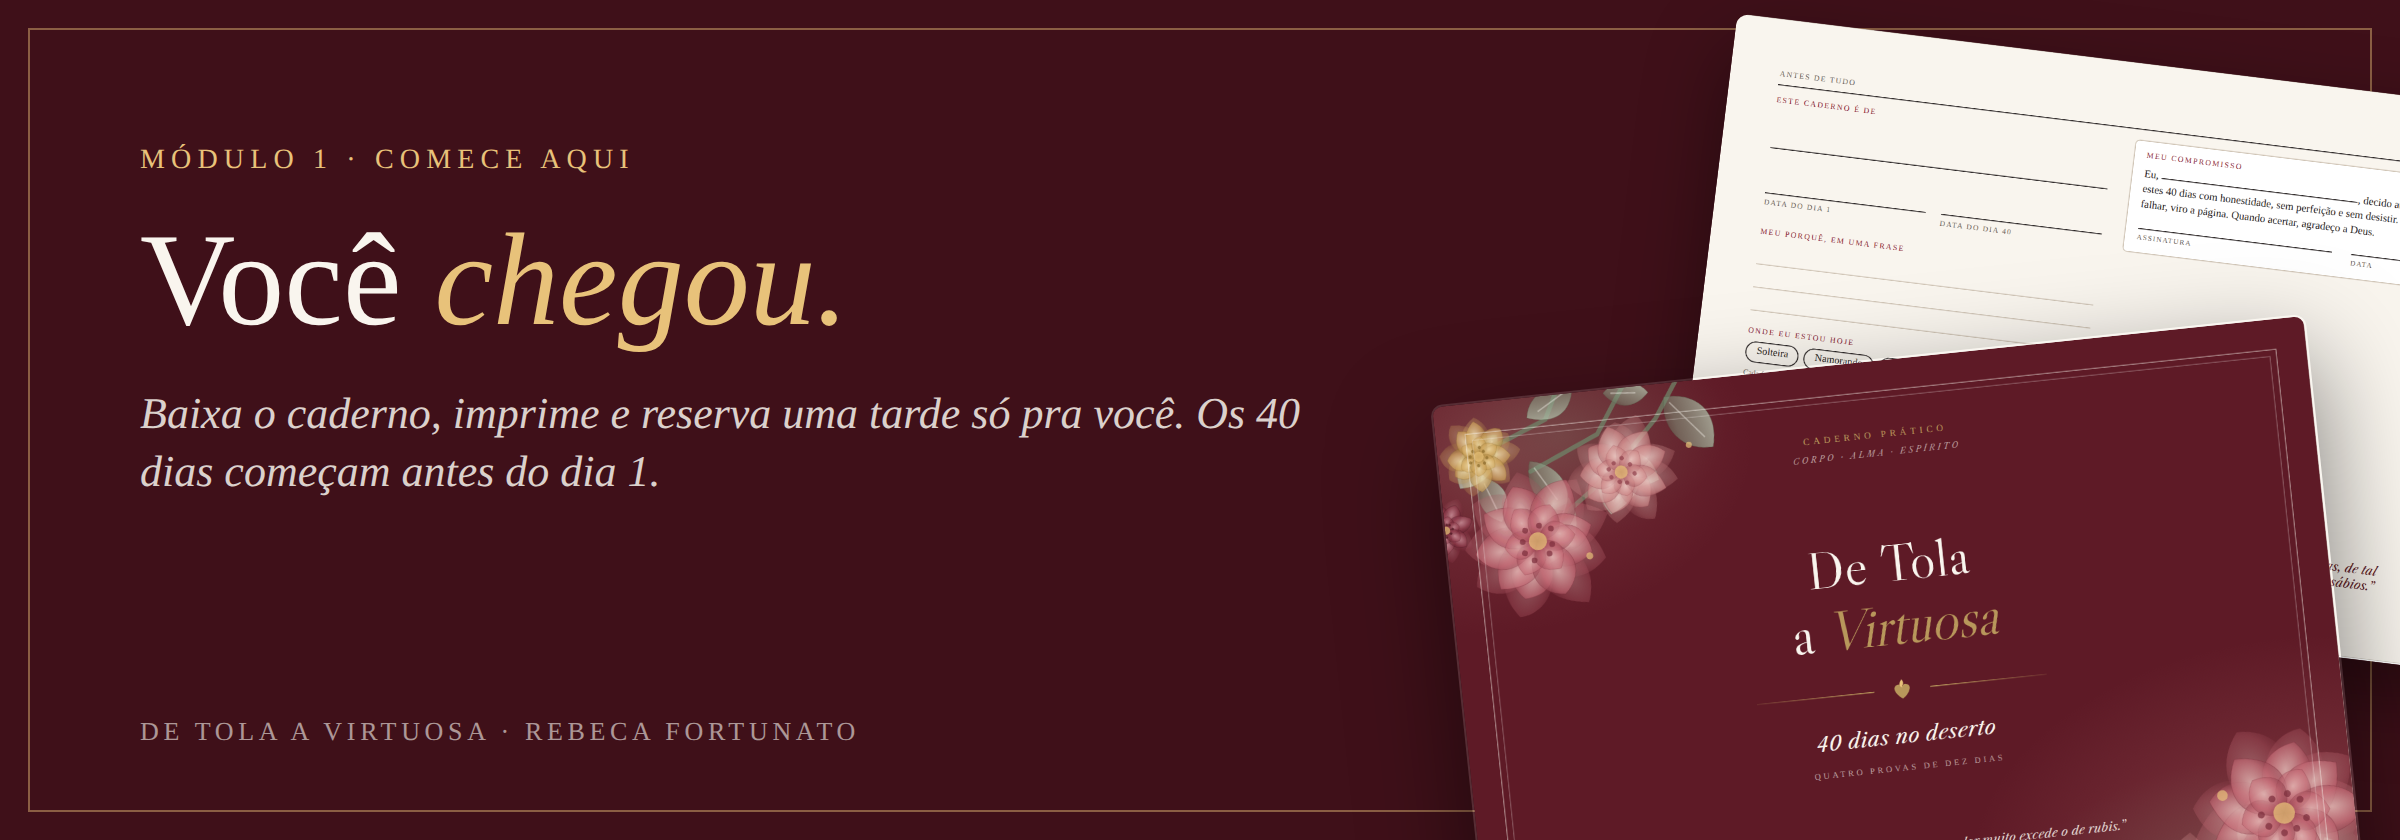
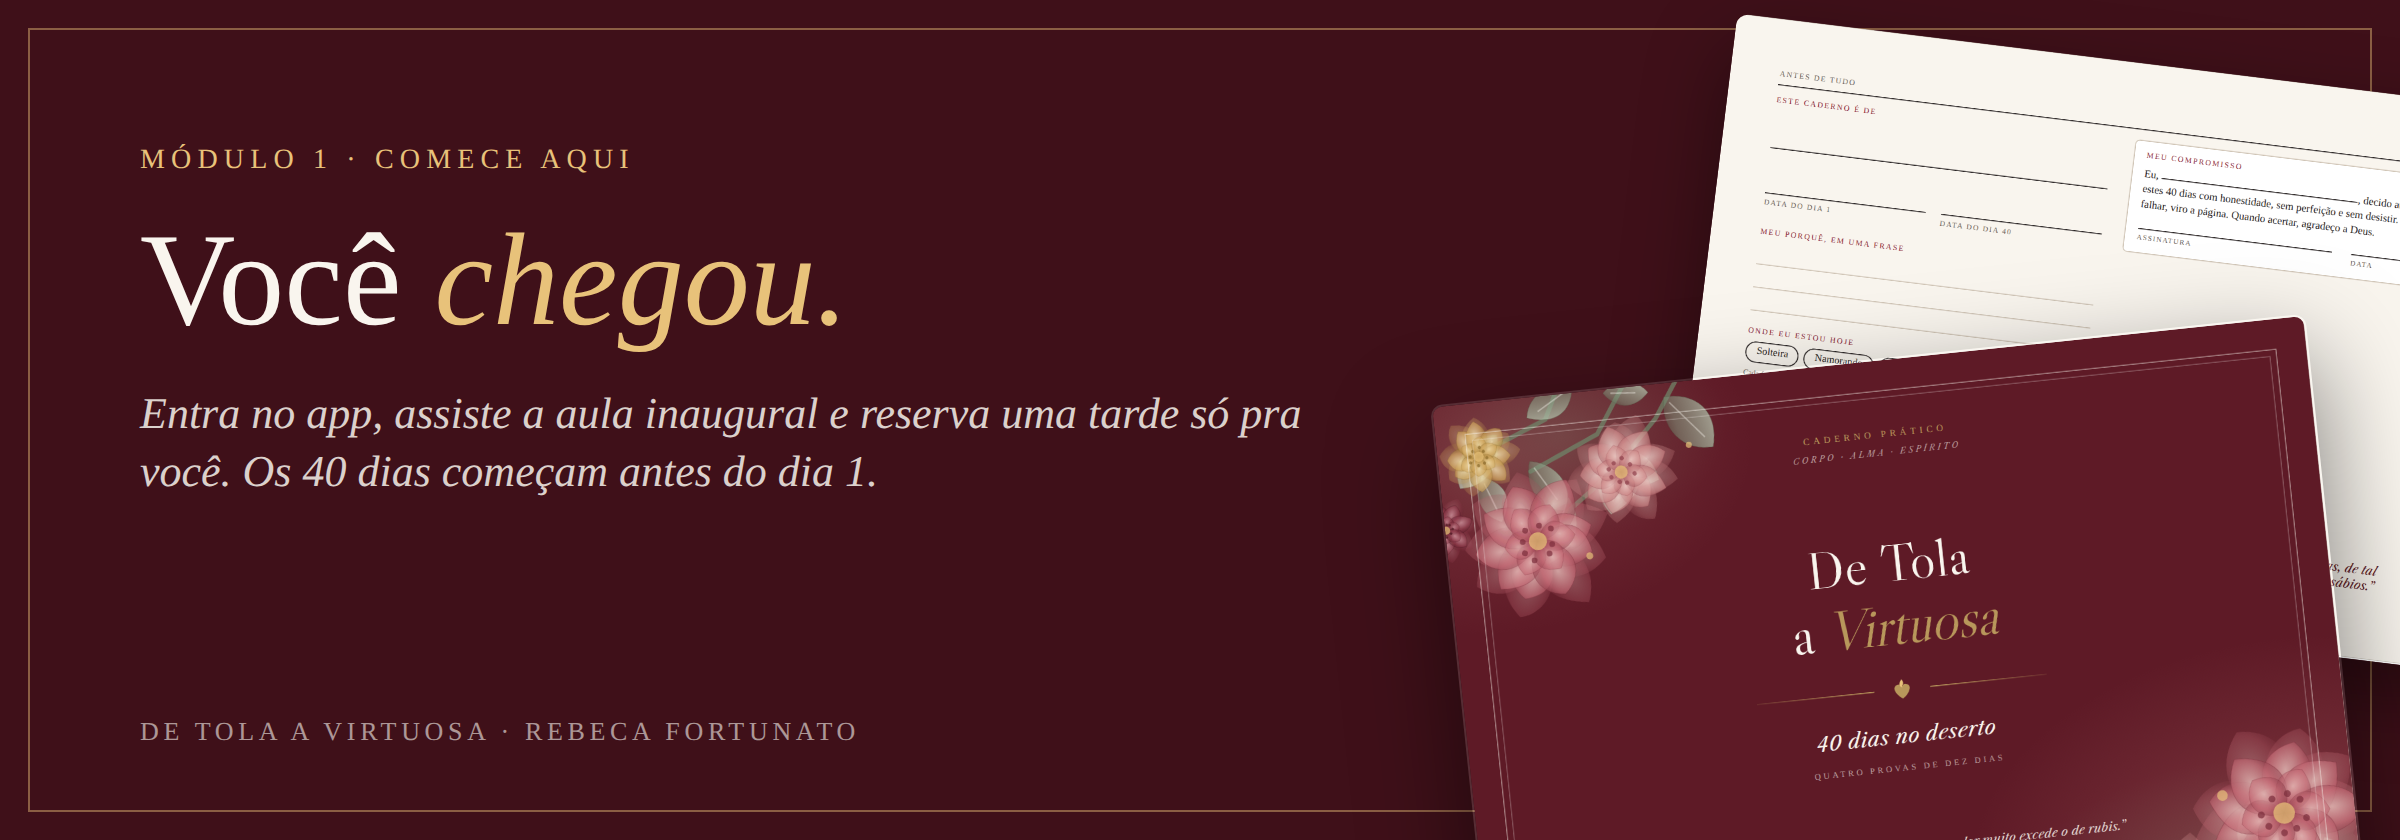
Aula Comece aqui vira mapa do caminho: app primeiro, PDF no fim
Claude-Session: https://claude.ai/code/session_01GVjzB1KzkYMHJxVq5zD7i2

Changed region(s): [[0.0625, 0.4643, 0.5625, 0.5881]]

diff --git a/kiwify/aula-comece-aqui.html b/kiwify/aula-comece-aqui.html
@@ -3,38 +3,59 @@
   <img src="https://detolaavirtuosa.com/assets/img/aula-banner.png" alt="Você chegou. De Tola a Virtuosa" style="width:100%;height:auto;display:block;border-radius:12px">
 
   <p style="font-size:24px;line-height:1.4;font-style:italic;color:#8E2A3A;margin:32px 0 8px">Oi, amada. Se você chegou até aqui, é porque cansou de ser a mulher que derruba a própria casa. Eu também cansei. Bem-vinda ao deserto. A gente sai de lá diferente.</p>
-  <p style="margin:0 0 28px;font-size:14px;letter-spacing:.18em;text-transform:uppercase;color:#B8975B">Rebeca Fortunato</p>
+  <p style="margin:0 0 32px;font-size:14px;letter-spacing:.18em;text-transform:uppercase;color:#B8975B">Rebeca Fortunato</p>
 
-  <p style="margin:0 0 18px">Antes de qualquer coisa, baixa o caderno e reserva uma tarde só pra você. As primeiras páginas são a parte mais importante desses 40 dias. São 72 páginas em A4 deitado, em PDF. É seu pra sempre.</p>
+  <h3 style="font-family:Georgia,serif;font-weight:normal;font-size:26px;color:#3F1019;margin:0 0 10px">O que você acabou de receber</h3>
+  <p style="margin:0 0 14px">De Tola a Virtuosa é um devocional prático de 40 dias, dividido em quatro provas de dez dias. Cada dia tem uma leitura curta da Bíblia, um desafio pra fazer no mesmo dia e uma página pra marcar o que aconteceu. Um minuto pra marcar, o resto é vida.</p>
+  <p style="margin:0 0 32px">Ele vem em duas versões, e você tem as duas: o caderno pra imprimir e a versão pelo celular. As aulas em vídeo da Rebeca também ficam lá no app. Esta página aqui é só o mapa do caminho.</p>
 
-  <p style="margin:0 0 36px"><a href="https://detolaavirtuosa.com/dist/de-tola-a-virtuosa.pdf" target="_blank" style="display:inline-block;background:#8E2A3A;color:#F9F5EE;text-decoration:none;font-weight:bold;padding:16px 28px;border-radius:999px;font-size:17px">Baixar o caderno em PDF</a><br><span style="font-size:14px;color:#7a6a64">O mesmo arquivo também está nos anexos, no fim desta aula. Se um dia perder, o link acima está sempre atualizado.</span></p>
+  <img src="https://detolaavirtuosa.com/assets/img/aula-passos.png" alt="Seus primeiros passos" style="width:100%;height:auto;display:block;border-radius:12px;margin:0 0 32px">
 
-  <img src="https://detolaavirtuosa.com/assets/img/aula-passos.png" alt="Seus primeiros passos" style="width:100%;height:auto;display:block;border-radius:12px;margin:0 0 24px">
-
-  <h3 style="font-family:Georgia,serif;font-weight:normal;font-size:26px;color:#3F1019;margin:0 0 12px">Como usar</h3>
-  <ol style="margin:0 0 36px;padding-left:22px">
-    <li style="margin-bottom:10px"><b>Imprima</b> só frente, colorido, em A4 deitado. Na gráfica, peça assim: impressão colorida, só frente, A4 na horizontal, encadernação em espiral ou wire-o. Se preferir menor, imprime em A5 que a proporção é a mesma.</li>
-    <li style="margin-bottom:10px"><b>Antes do dia 1</b>, preencha as primeiras páginas: compromisso, identidade, propósito, regras, quadro dos sonhos, carta pro futuro e o retrato do dia 1. Uma tarde resolve.</li>
-    <li style="margin-bottom:10px"><b>Marque a data do dia 1</b> na página 2 e comece. Uma página por dia, um minuto pra marcar. Escrever é bônus.</li>
-    <li style="margin-bottom:10px"><b>Perdeu um dia?</b> Marque "pulei" e vire a página. Não recomeça do zero.</li>
-  </ol>
-
-  <div style="background:#3F1019;color:#F9F5EE;border-radius:14px;padding:30px 32px;margin:0 0 24px">
-    <p style="margin:0 0 6px;font-size:13px;letter-spacing:.2em;text-transform:uppercase;color:#E8C27A">Prefere fazer pelo celular?</p>
-    <p style="margin:0 0 16px;font-size:22px;line-height:1.35">A mesma travessia, no seu bolso.</p>
+  <div style="background:#3F1019;color:#F9F5EE;border-radius:14px;padding:30px 32px;margin:0 0 32px">
+    <p style="margin:0 0 6px;font-size:13px;letter-spacing:.2em;text-transform:uppercase;color:#E8C27A">Primeira coisa</p>
+    <p style="margin:0 0 14px;font-size:24px;line-height:1.3">Entre no app. É lá que tudo mora.</p>
     <p style="margin:0 0 18px;color:#e9dfd3">Clique em <b style="color:#fff">Criar conta</b> (não em Entrar) e use o mesmo e-mail desta compra. O acesso libera na hora. Se aparecer "e-mail sem acesso", confere se é o e-mail que você usou pra pagar.</p>
-    <a href="https://detolaavirtuosa.com/app/" target="_blank" style="display:inline-block;background:#E8C27A;color:#3F1019;text-decoration:none;font-weight:bold;padding:14px 26px;border-radius:999px;font-size:16px">Abrir o app</a>
-    <p style="margin:18px 0 0;font-size:15px;color:#cdbfb3">Dá pra usar os dois: o caderno na mesa de cabeceira e o celular nos dias em que você está longe dele.</p>
+    <a href="https://detolaavirtuosa.com/app/" target="_blank" style="display:inline-block;background:#E8C27A;color:#3F1019;text-decoration:none;font-weight:bold;padding:15px 28px;border-radius:999px;font-size:17px">Criar minha conta</a>
+    <p style="margin:18px 0 0;font-size:15px;color:#cdbfb3">Depois de entrar, a primeira aula é a inaugural. Assiste antes de escrever qualquer coisa.</p>
   </div>
 
-  <div style="background:#F9F5EE;border:1px solid #CFC4B5;border-radius:14px;padding:26px 32px;margin:0 0 24px">
+  <h3 style="font-family:Georgia,serif;font-weight:normal;font-size:26px;color:#3F1019;margin:0 0 6px">Como você quer fazer?</h3>
+  <p style="margin:0 0 18px;color:#5a4a44">Escolhe um. Ou usa os dois: o caderno na mesa de cabeceira e o celular nos dias em que você está longe dele.</p>
+
+  <div style="display:flex;flex-wrap:wrap;gap:18px;margin:0 0 32px">
+    <div style="flex:1 1 280px;background:#F9F5EE;border:1px solid #CFC4B5;border-radius:14px;padding:26px 26px 24px">
+      <p style="margin:0 0 6px;font-size:13px;letter-spacing:.2em;text-transform:uppercase;color:#8E2A3A">Versão impressa</p>
+      <p style="margin:0 0 12px;font-size:22px;line-height:1.3;color:#3F1019">Quero o caderno em mãos</p>
+      <p style="margin:0 0 18px;font-size:16px;color:#5a4a44">72 páginas em A4 deitado. Imprime colorido, só frente, e encaderna em espiral. O guia completo do que pedir na gráfica, com vídeo, está no app.</p>
+      <a href="https://detolaavirtuosa.com/app/#/imprimir" target="_blank" style="display:inline-block;background:#8E2A3A;color:#F9F5EE;text-decoration:none;font-weight:bold;padding:13px 24px;border-radius:999px;font-size:15px">Ver como imprimir</a>
+      <p style="margin:14px 0 0;font-size:14px;color:#7a6a64">O PDF pra baixar está no fim desta página.</p>
+    </div>
+    <div style="flex:1 1 280px;background:#F9F5EE;border:1px solid #CFC4B5;border-radius:14px;padding:26px 26px 24px">
+      <p style="margin:0 0 6px;font-size:13px;letter-spacing:.2em;text-transform:uppercase;color:#8E2A3A">Versão pelo celular</p>
+      <p style="margin:0 0 12px;font-size:22px;line-height:1.3;color:#3F1019">Prefiro fazer no celular</p>
+      <p style="margin:0 0 18px;font-size:16px;color:#5a4a44">A mesma travessia, no seu bolso: preparação, o dia de hoje, as quatro provas e o seu progresso. Nada pra imprimir.</p>
+      <a href="https://detolaavirtuosa.com/app/" target="_blank" style="display:inline-block;background:#8E2A3A;color:#F9F5EE;text-decoration:none;font-weight:bold;padding:13px 24px;border-radius:999px;font-size:15px">Abrir o app</a>
+      <p style="margin:14px 0 0;font-size:14px;color:#7a6a64">Salva na tela inicial do celular e vira um aplicativo.</p>
+    </div>
+  </div>
+
+  <div style="background:#F9F5EE;border:1px solid #CFC4B5;border-radius:14px;padding:26px 32px;margin:0 0 18px">
+    <p style="margin:0 0 6px;font-size:13px;letter-spacing:.2em;text-transform:uppercase;color:#8E2A3A">Onde ficam as aulas</p>
+    <p style="margin:0 0 14px">Dentro do app, na aba <b>Aulas</b>: a aula inaugural, como imprimir e encadernar, e como usar a versão pelo celular. Não tem aula aqui na Kiwify, é tudo lá.</p>
+    <a href="https://detolaavirtuosa.com/app/#/aulas" target="_blank" style="color:#8E2A3A;font-weight:bold">Ver as aulas no app</a>
+  </div>
+
+  <div style="background:#F9F5EE;border:1px solid #CFC4B5;border-radius:14px;padding:26px 32px;margin:0 0 40px">
     <p style="margin:0 0 6px;font-size:13px;letter-spacing:.2em;text-transform:uppercase;color:#8E2A3A">Comprou o presente pra uma amiga?</p>
-    <p style="margin:0">O link dela está dentro do app, no menu <b>Presente</b>. Manda por WhatsApp de lá mesmo. Ela cria a conta com o e-mail dela e entra na travessia igual você.</p>
+    <p style="margin:0 0 14px">O link dela está dentro do app, no menu <b>Presente</b>. Manda por WhatsApp de lá mesmo. Ela cria a conta com o e-mail dela e entra na travessia igual você.</p>
+    <a href="https://detolaavirtuosa.com/app/#/presente" target="_blank" style="color:#8E2A3A;font-weight:bold">Pegar o link do presente</a>
   </div>
 
-  <div style="background:#F9F5EE;border:1px solid #CFC4B5;border-radius:14px;padding:26px 32px;margin:0 0 36px">
-    <p style="margin:0 0 6px;font-size:13px;letter-spacing:.2em;text-transform:uppercase;color:#8E2A3A">As aulas</p>
-    <p style="margin:0">Aqui na área de membros também ficam as aulas em vídeo: a aula inaugural, como imprimir e encadernar, e como usar o app. Assiste a inaugural antes de preencher as primeiras páginas.</p>
+  <div style="border-top:1px solid #CFC4B5;padding-top:32px;margin:0 0 36px">
+    <h3 style="font-family:Georgia,serif;font-weight:normal;font-size:26px;color:#3F1019;margin:0 0 10px">Agora sim: baixe o caderno</h3>
+    <p style="margin:0 0 18px">O caderno inteiro em PDF, 72 páginas em A4 deitado. É seu pra sempre. Guarda num lugar que você ache depois.</p>
+    <a href="https://detolaavirtuosa.com/dist/de-tola-a-virtuosa.pdf" target="_blank" style="display:inline-block;background:#8E2A3A;color:#F9F5EE;text-decoration:none;font-weight:bold;padding:16px 28px;border-radius:999px;font-size:17px">Baixar o caderno em PDF</a>
+    <p style="margin:12px 0 0;font-size:14px;color:#7a6a64">O mesmo arquivo também está nos anexos, logo abaixo. Se um dia perder, o botão acima está sempre atualizado.</p>
   </div>
 
   <p style="margin:0 0 8px;font-size:22px;color:#3F1019">Deu algum problema?</p>
